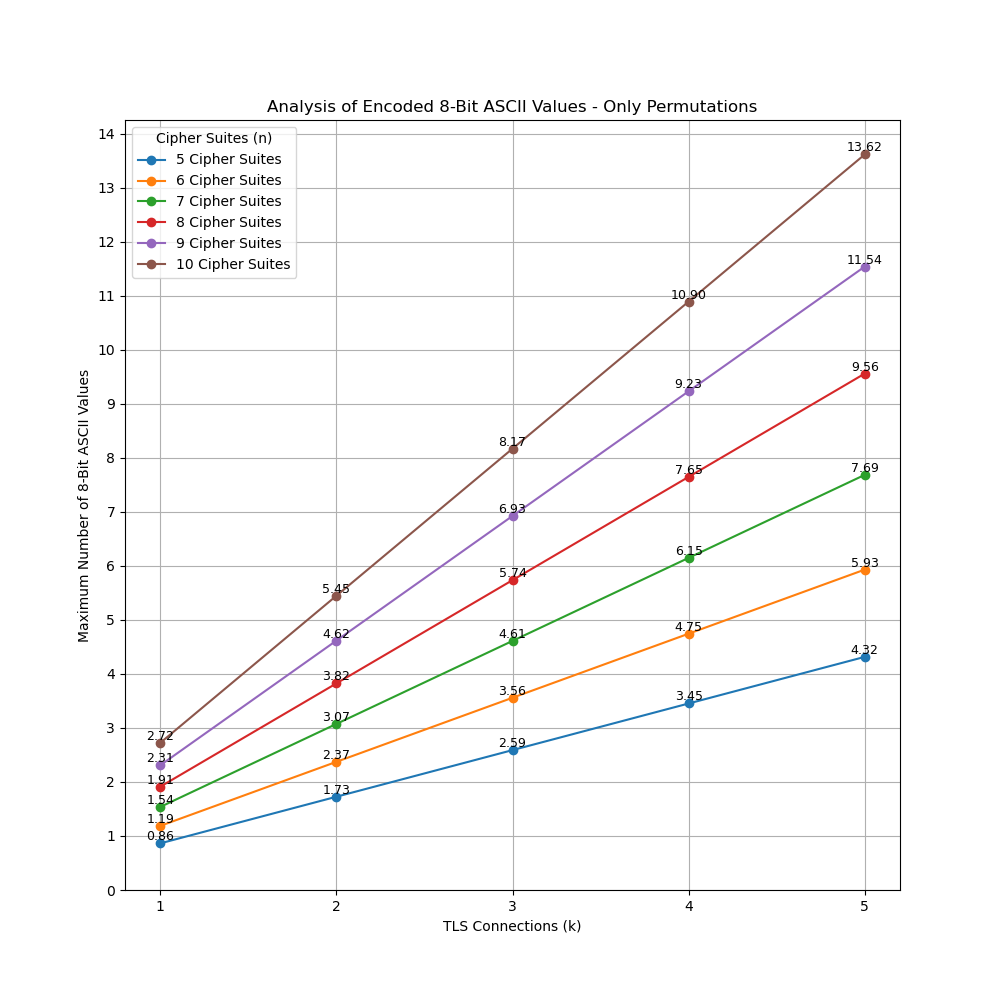
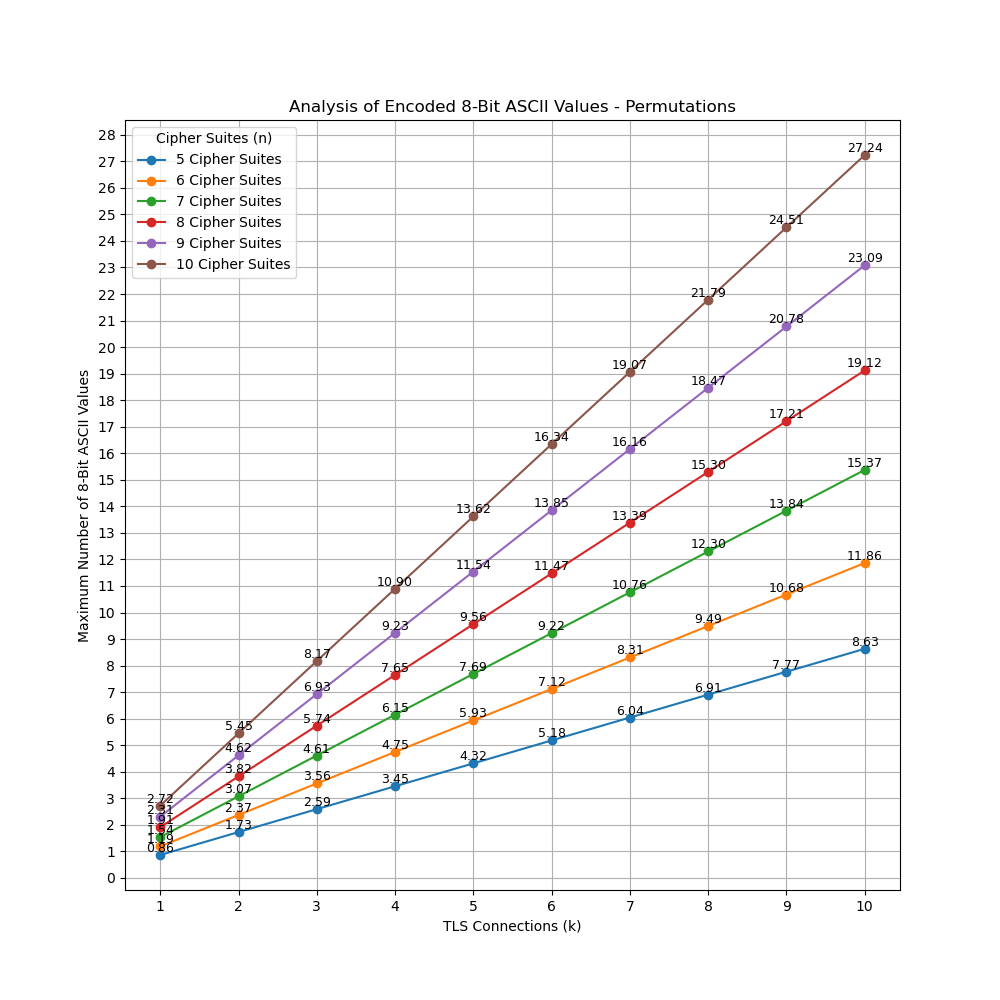
custom encoding

diff --git a/encoding-analysis/encoding_analysis_permutations.py b/encoding-analysis/encoding_analysis_permutations.py
@@ -4,7 +4,7 @@ import matplotlib.pyplot as plt
 
 # Parameter
 n_values = range(5, 11)  # n (Number of Cipher Suites)
-k_values = range(1, 6)  # k (Number of TLS Connections)
+k_values = range(1, 11)  # k (Number of TLS Connections)
 
 # Matrix for ASCII-chars per connection
 ascii_matrix = np.zeros((len(n_values), len(k_values)))
@@ -31,7 +31,7 @@ for i, n in enumerate(n_values):
 
 ax.set_xlabel("TLS Connections (k)")
 ax.set_ylabel("Maximum Number of 8-Bit ASCII Values")
-ax.set_title("Analysis of Encoded 8-Bit ASCII Values - Only Permutations")
+ax.set_title("Analysis of Encoded 8-Bit ASCII Values - Permutations")
 ax.legend(title="Cipher Suites (n)")
 ax.grid(True)
 ax.set_xticks(k_values)
